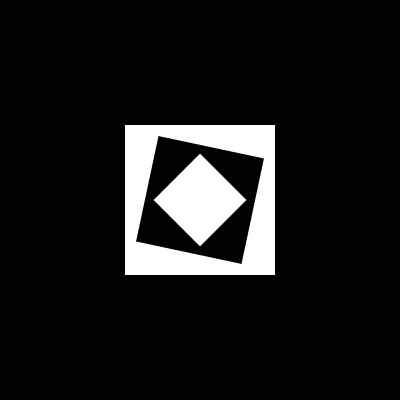
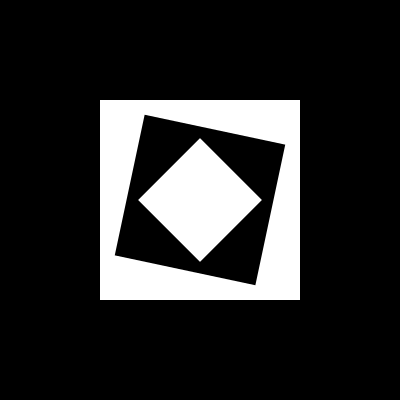
update og

Changed region(s): [[0.24, 0.24, 0.75, 0.75]]

diff --git a/docs/scripts/generate-og.ts b/docs/scripts/generate-og.ts
@@ -69,7 +69,7 @@ const icon2Composite = `<svg xmlns="http://www.w3.org/2000/svg" width="${width}"
 </svg>`;
 
 const twitterSize = 400;
-const twitterIconSize = 150;
+const twitterIconSize = 200;
 const twitterIconScale = twitterIconSize / 128;
 const twitterIconX = (twitterSize - twitterIconSize) / 2;
 const twitterIconY = (twitterSize - twitterIconSize) / 2;
